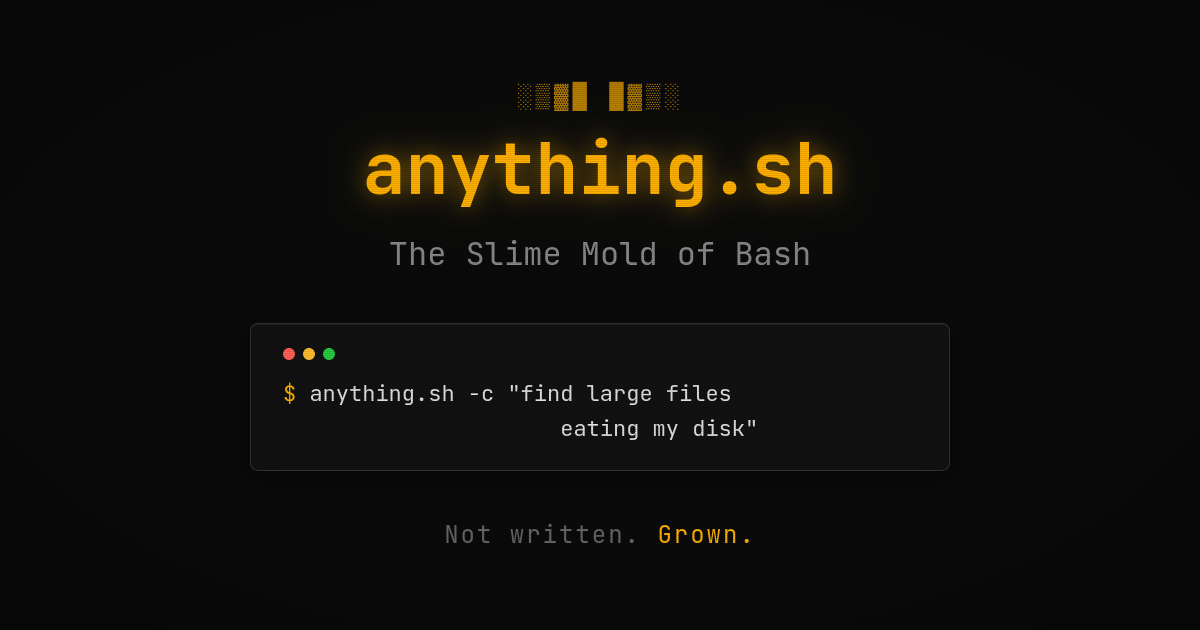
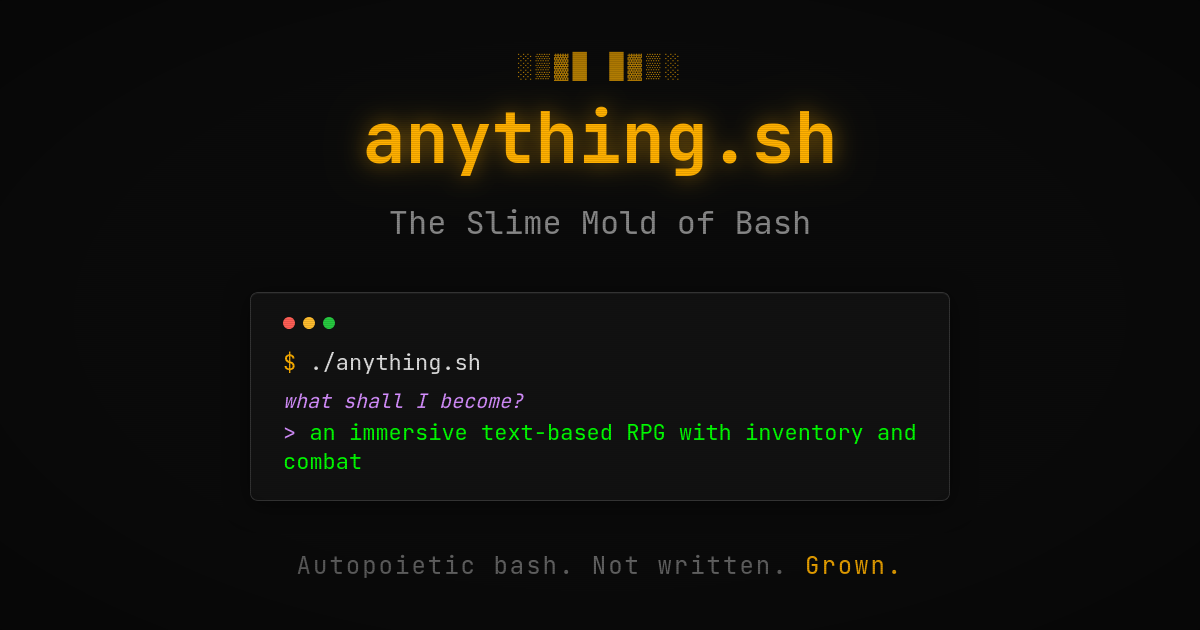
Update OG card design and regenerated OG image

diff --git a/src/og-card.html b/src/og-card.html
@@ -114,9 +114,9 @@
     .terminal-dot.green { background: #27ca40; }
 
     .prompt {
-      color: #00ff00;
       font-size: 22px;
       line-height: 1.6;
+      margin-bottom: 8px;
     }
 
     .prompt-symbol {
@@ -125,6 +125,21 @@
 
     .prompt-text {
       color: #e0e0e0;
+    }
+
+    .prompt-question {
+      color: #d68fff;
+      font-size: 20px;
+      margin-bottom: 4px;
+    }
+
+    .user-input {
+      color: #00ff00;
+      font-size: 22px;
+    }
+
+    .user-input-marker {
+      color: #d68fff;
     }
 
     .footer {
@@ -154,12 +169,17 @@
       </div>
       <div class="prompt">
         <span class="prompt-symbol">$</span>
-        <span class="prompt-text"> anything.sh -c "find large files</span><br>
-        <span class="prompt-text">&nbsp;&nbsp;&nbsp;&nbsp;&nbsp;&nbsp;&nbsp;&nbsp;&nbsp;&nbsp;&nbsp;&nbsp;&nbsp;&nbsp;&nbsp;&nbsp;&nbsp;&nbsp;&nbsp;&nbsp;&nbsp;eating my disk"</span>
+        <span class="prompt-text"> ./anything.sh</span>
+      </div>
+      <div class="prompt-question">
+        <em>what shall I become?</em>
+      </div>
+      <div class="user-input">
+        <span class="user-input-marker">&gt;</span> an immersive text-based RPG with inventory and combat
       </div>
     </div>
 
-    <p class="footer">Not written. <em>Grown.</em></p>
+    <p class="footer">Autopoietic bash. Not written. <em>Grown.</em></p>
   </div>
 </body>
 </html>
